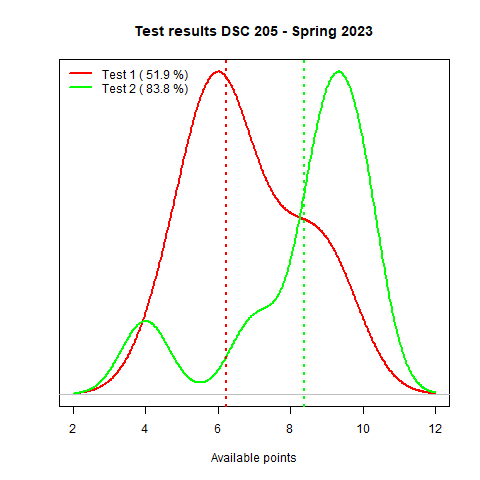
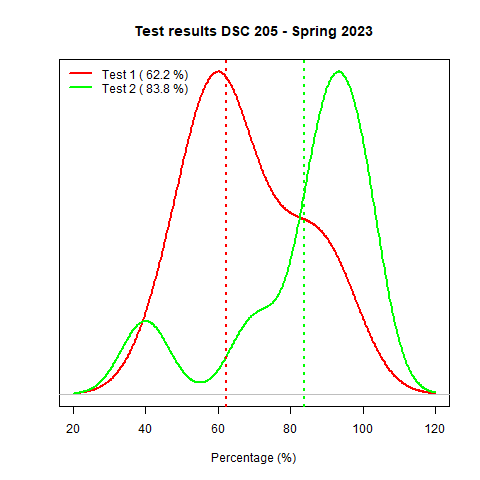
update

diff --git a/spring23.md b/spring23.md
@@ -1,14 +1,14 @@
 
 # Table of Contents
 
-1.  [Introduction to programming CSC 100](#org3c46d04)
-2.  [Introduction to advanced data science DSC 205](#org8e36aca)
-3.  [Machine learning DSC 305](#org2cefcbc)
-4.  [Digital humanities CSC 105](#org9289d00)
+1.  [Introduction to programming CSC 100](#org46da0ec)
+2.  [Introduction to advanced data science DSC 205](#orgd5a641d)
+3.  [Machine learning DSC 305](#orgb34ec74)
+4.  [Digital humanities CSC 105](#orge6a58d8)
 
 
 
-<a id="org3c46d04"></a>
+<a id="org46da0ec"></a>
 
 # Introduction to programming CSC 100
 
@@ -74,7 +74,7 @@ Density distribution plotting:
     ![img](./img/ccTest1SP23.png)
 
 
-<a id="org8e36aca"></a>
+<a id="orgd5a641d"></a>
 
 # Introduction to advanced data science DSC 205
 
@@ -89,16 +89,18 @@ Density distribution plotting:
 -   Non-writing participants are registered as `NA`
 -   Tests carried different number of available points
 
-    ds2_results_1 <- c(6.75, 9.25, 6.75, 7.25, 8.75, 7, 6, 8, NA)
+    ## Test 1 had 12 points
+    ds2_results_1 <- c(6.75, 9.25, 6.75, 7.25, 8.75, 7, 6, 8, NA)/12 * 100
     format(ds2_results_1,digits=3)
-    ds2_results_2 <- c(7, 9.5, 10, 8.5, 10, 4, NA, 9, 9)
+    ## Test 2 had 10 points
+    ds2_results_2 <- c(7, 9.5, 10, 8.5, 10, 4, NA, 9, 9)/10 * 100
     format(ds2_results_2,digits=3)
 
-    [1] "6.75" "9.25" "6.75" "7.25" "8.75" "7.00" "6.00" "8.00" "  NA"
-    [1] " 7.0" " 9.5" "10.0" " 8.5" "10.0" " 4.0" "  NA" " 9.0" " 9.0"
+    [1] "56.2" "77.1" "56.2" "60.4" "72.9" "58.3" "50.0" "66.7" "  NA"
+    [1] " 70" " 95" "100" " 85" "100" " 40" " NA" " 90" " 90"
 
 
-## Plotting the data - Test 1
+## Plotting the data
 
 Density distribution plotting:
 
@@ -109,14 +111,13 @@ Density distribution plotting:
     white): red, green, yellow, blue, black, pink, cyan, gray, orange,
     brown, purple
     
-        library(MASS)
         ds2_avg_1 <- mean(ds2_results_1, na.rm=TRUE);
         ds2_density_1 <- density(ds2_results_1, na.rm=TRUE)
         ds2_avg_2 <- mean(ds2_results_2, na.rm=TRUE);
         ds2_density_2 <- density(ds2_results_2, na.rm=TRUE)
         plot(x=ds2_density_1, col="red", lwd=2,
              main="Test results DSC 205 - Spring 2023",
-             xlab="Available points",
+             xlab="Percentage (%)",
              xaxt="n",yaxt="n",ylab="")
         par(new=TRUE)
         plot(x=ds2_density_2, col="green", lwd=2,
@@ -125,8 +126,8 @@ Density distribution plotting:
         abline(v=ds2_avg_2, col="green", lty=3, lwd=2)
         legend("topleft",
                legend=c(
-                 paste("Test 1 (",format(100*ds2_avg_1/12,digits=3),"%)"),
-                 paste("Test 2 (",format(100*ds2_avg_2/10,digits=3),"%)")),
+                 paste("Test 1 (",format(ds2_avg_1,digits=3),"%)"),
+                 paste("Test 2 (",format(ds2_avg_2,digits=3),"%)")),
                lwd=2, col=c(test1="red",
                             test2="green"),
                bty="n")
@@ -134,30 +135,7 @@ Density distribution plotting:
     ![img](./img/ds2TestSP23.png)
 
 
-## Plotting the data - Test 2+
-
--   Test results from test 2 are registered manually
--   Participants who did not write the test are listed as `NA`
--   ds2_avg_1 <- mean(ds2_results_1[-which(ds2_results_1==0)]);
-        ds2_density_1 <- density(ds2_results_1)
-        
-        par(mfrow=c(1,2),pty='s')
-        hist(x=ds2_results_1,
-             main="Histogram",
-             xlab="Points in [0,10]")
-        
-        plot(x=ds2_density_1, col="black",
-             main="Density estimate",
-             xlab=paste("N=",length(ds2_results_1)-2,"participants"))
-        abline(v=ds2_avg_1, col="blue", lty=3)
-        text(x=-1, y=0.15, adj=0,
-             col="blue",
-             label=paste("corrected\nmean:",format(ds2_avg_1,digits=3)));
-    
-    ![img](./img/ds2Test2SP23.png)
-
-
-<a id="org2cefcbc"></a>
+<a id="orgb34ec74"></a>
 
 # Machine learning DSC 305
 
@@ -225,7 +203,7 @@ Density distribution plotting:
     ![img](./img/mlTest1SP23.png)
 
 
-<a id="org9289d00"></a>
+<a id="orge6a58d8"></a>
 
 # Digital humanities CSC 105
 
